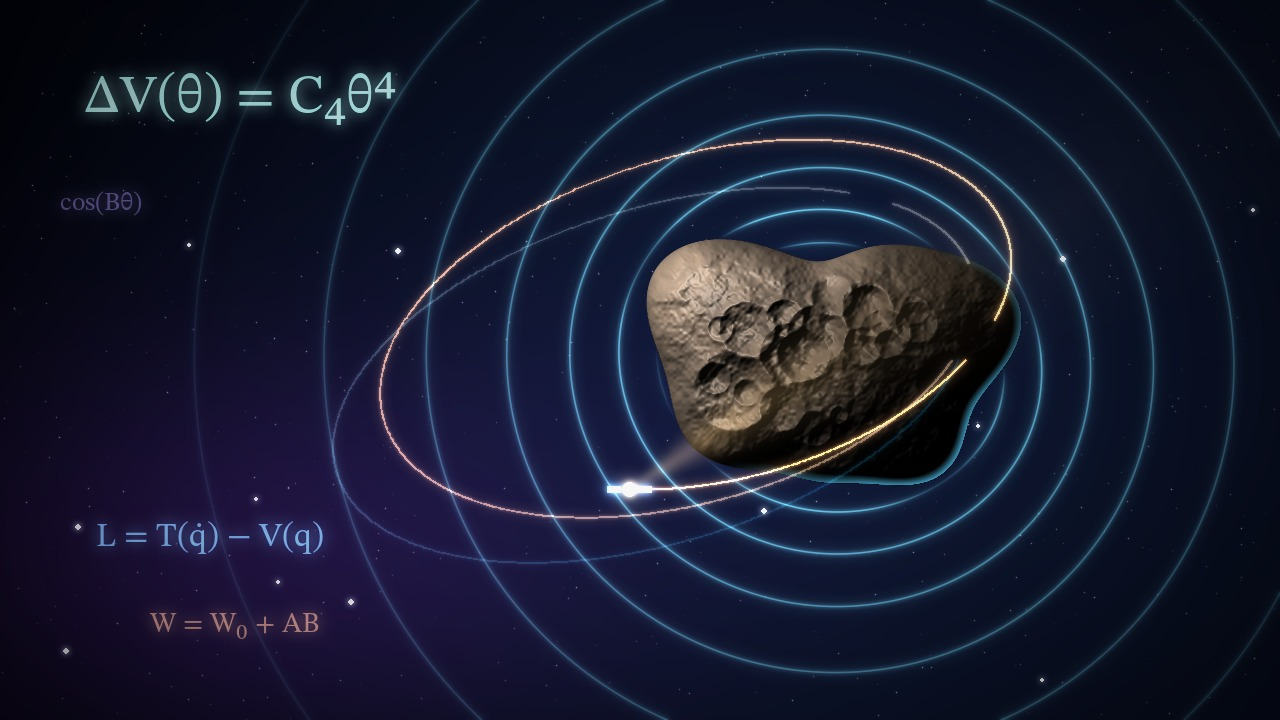
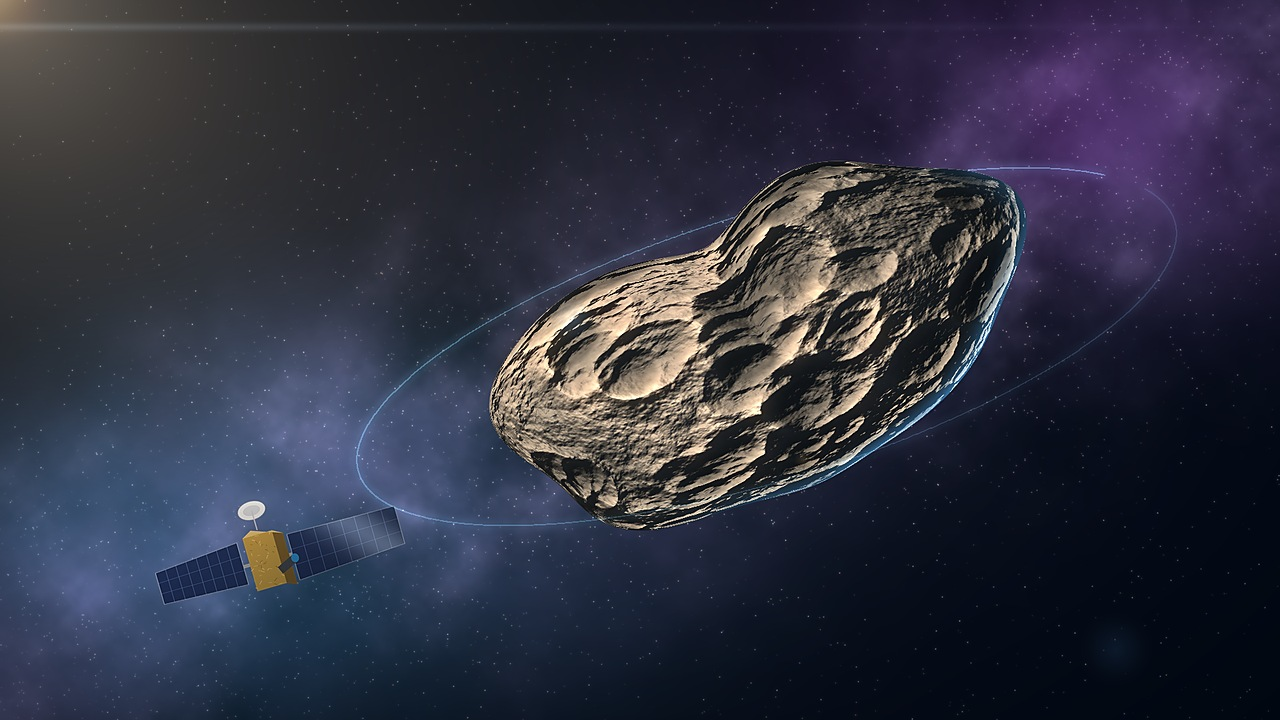
New VAE cover, row-ordered project grid, Writer's Blog last

diff --git a/_sass/_projects.scss b/_sass/_projects.scss
@@ -215,3 +215,20 @@
   }
   .pp-verdicts.pp-left { justify-content: flex-start; }
 }
+
+// Projects index: row-ordered grid (follows each project's `order:`)
+.project-grid {
+  display: grid;
+  grid-template-columns: repeat(3, minmax(0, 1fr));
+  gap: 1.25rem;
+  align-items: stretch;
+
+  @media (max-width: 991px) { grid-template-columns: repeat(2, minmax(0, 1fr)); }
+  @media (max-width: 575px) { grid-template-columns: 1fr; }
+
+  > div { display: flex; }
+  .project.card {
+    margin: 0; width: 100%;
+    .card-img-top { height: 210px; object-fit: cover; }
+  }
+}

diff --git a/_includes/projects/index.html b/_includes/projects/index.html
@@ -1,5 +1,5 @@
 
-<div class="card-columns m-3 mt-5">
+<div class="project-grid m-3 mt-5">
 
   <!-- Remote Projects -->
   {% for remote_project in page.remote_projects %}
@@ -34,7 +34,8 @@
   {% endfor %}
 
   <!-- Local Projects -->
-  {% for project in site.projects %}
+  {%- assign sorted_projects = site.projects | sort: "order", "last" -%}
+  {% for project in sorted_projects %}
 
     {%- assign project_type  = "local" -%}
     {%- assign project_id    = project.name | slugify -%}

diff --git a/_projects/000adjudge.md b/_projects/000adjudge.md
@@ -1,4 +1,5 @@
 ---
+order: 2
 name: "Ad-Judge: Domain-Specific VLM for Digital Advertisement Evaluation"
 tools: [PyTorch, VLMs, Fine-tuning, LLaVA]
 image: /assets/img/adjudge-cover.jpg

diff --git a/_projects/0000vae.md b/_projects/0000vae.md
@@ -1,4 +1,5 @@
 ---
+order: 1
 name: Interpretability of Latent Spaces in Variational Autoencoders
 tools: [PyTorch, VAEs, LoRA, Symbolic Regression]
 image: /assets/img/vae-cover.jpg

diff --git a/_projects/7cifar.md b/_projects/7cifar.md
@@ -1,4 +1,5 @@
 ---
+order: 6
 name: Image Classification on CIFAR-10
 tools: [Computer Vision, CNN, Classification, Tensorflow]
 image: /assets/img/cifar2.jpeg

diff --git a/_projects/00mrgcn.md b/_projects/00mrgcn.md
@@ -1,4 +1,5 @@
 ---
+order: 4
 name: Siamese Networks for One-shot Image Recognition
 tools: [Tensorflow, Python]
 image: /assets/img/snn0.png

diff --git a/_projects/2isro.md b/_projects/2isro.md
@@ -1,4 +1,5 @@
 ---
+order: 5
 name: Fraud Detection in E-commerce using Machine Learning
 tools: [ML, Python]
 image: /assets/img/fraud0.png

diff --git a/_projects/5stockprice.md b/_projects/5stockprice.md
@@ -1,4 +1,5 @@
 ---
+order: 3
 name: Satellite Image Recognition
 tools: [Python, Stanford CoreNLP API]
 image: /assets/img/stock2.jpg

diff --git a/_projects/0lhc.md b/_projects/0lhc.md
@@ -1,4 +1,5 @@
 ---
+order: 7
 name: Writer’s Blog
 tools: [JavaScript, NodeJS, MongoDB]
 image: /assets/img/lhc.jpg
